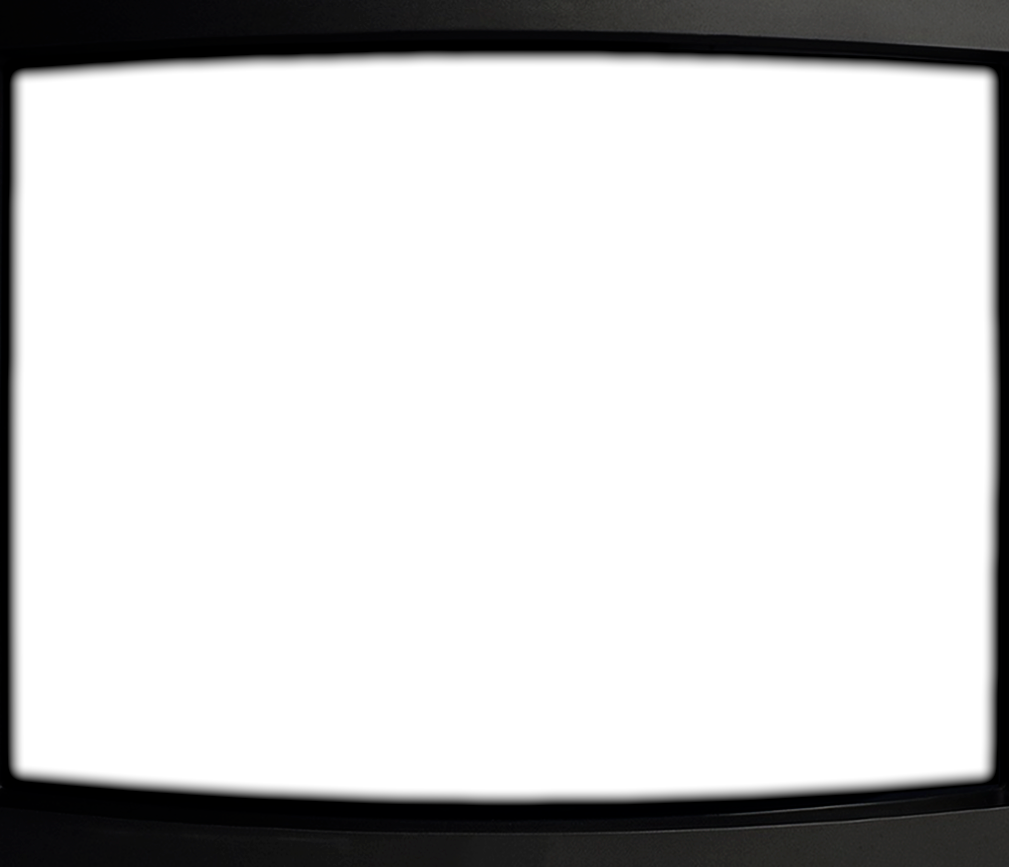
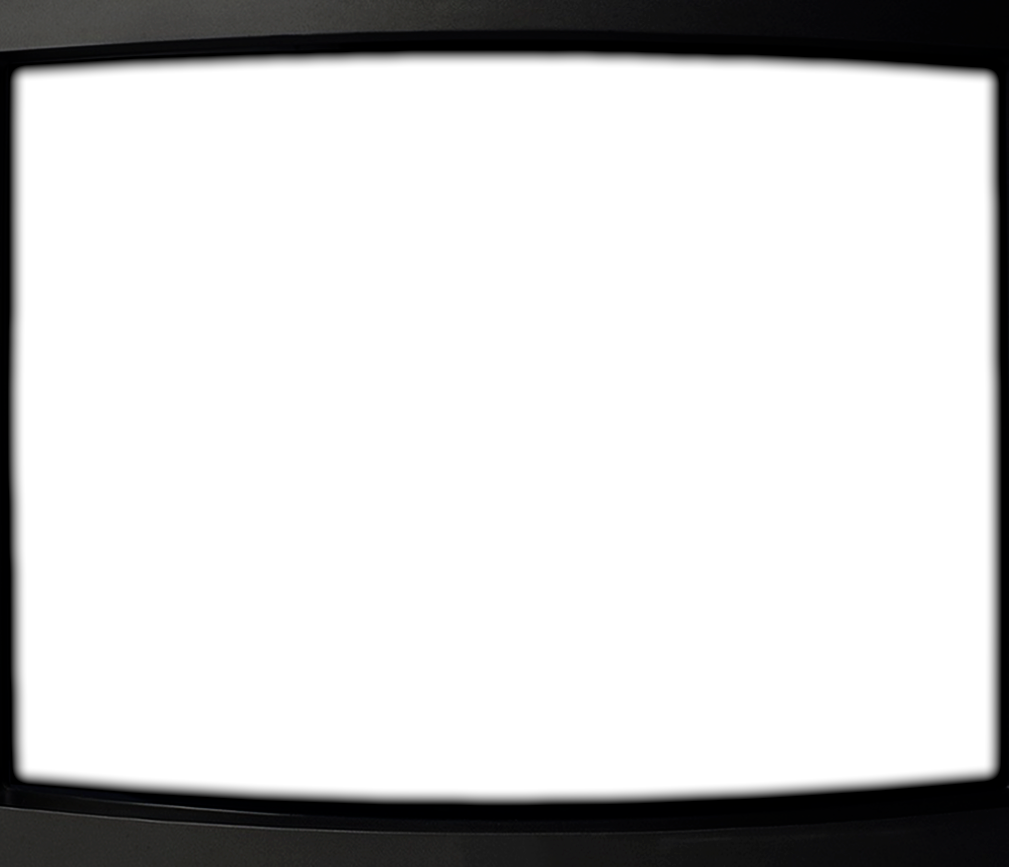
Modify css display logic

diff --git a/_sass/main.scss b/_sass/main.scss
@@ -33,16 +33,13 @@ body {
 }
 
 /* The top menu */
-.topnav {
+#topnav {
   display: flex;
-  z-index: 5;
-  // list-style-type: none;
+  z-index: 10;
   top: 0;
   width: 100%;
   height: 80px;
   position: fixed;
-  // margin: 0;
-  // padding: 0;
   overflow: hidden;
   background-color: #333;
   background-image: url('/assets/img/topbar.png');
@@ -63,7 +60,6 @@ body {
 
 .worn {
   content: '\A';
-  // position: absolute;
   opacity:90;
   background: url("/assets/img/wornkey.jpg");
 }
@@ -89,19 +85,117 @@ body {
   .topnav {float: none;}
 }
 
+/* Screen frame */
+#monitor {
+  margin-top: 60px;
+  position: fixed;
+  width: 100%;
+  height: 100%;
+  top: 0;
+  left: 0;
+  right: 0;
+  bottom: 0;
+	// align-items: center;
+  background-color: black;
+  background-image: radial-gradient(
+    rgba(10, 10, 10, 0.75), black 120%
+  );
+  border-bottom: 0px;
+  padding:0;
+}
+
+#bezel {
+  // z-index: 9;
+  box-sizing:border-box;
+  position: relative;
+  padding: 10px;
+  width: 100%;
+  height: 95vh;
+  border: 30px solid transparent;
+  border-image-source: url('/assets/img/bezel.png');
+  border-image-slice: 30 fill;
+  border-image-outset: 0;
+  overflow: hidden;
+}
+
+
+// #screen:before {
+//   content: " ";
+//   display: block;
+//   position: absolute;
+//   top: 0;
+//   left: 0;
+//   bottom: 0;
+//   right: 0;
+//   background: linear-gradient(
+//       to bottom,
+//       rgba(18, 16, 16, 0) 50%,
+//       rgba(0, 0, 0, 0.25) 50%
+//   );
+//   background-size: 100% 8px;
+//   z-index: 2;
+//   pointer-events: none;
+// }
+
+#screen, pre{
+  font-family: 'terminal';
+  font: 1.3rem terminal, monospace;
+}
+
+#screen::before {
+  box-sizing:inherit;
+}
+
+#screen {
+  z-index: 2;
+  position: relative;
+  // font-family: 'terminal';
+  // font: 1.3rem terminal, monospace;
+  height: 100vh;
+  // overflow: hidden;
+  padding: 2rem;
+  color: white;
+  // font: 1.3rem Inconsolata, monospace;
+  // text-shadow: 0 0 5px;
+  // &::after {
+  //   content: "";
+  //   position: relative;
+  //   top: 0;
+  //   left: 0;
+  //   bottom: 0;
+  //   width: 100vw;
+  //   height: 100vh;
+  //   background: repeating-linear-gradient(
+  //     0deg,
+  //     rgba(black, 0.15),
+  //     rgba(black, 0.15) 1px,
+  //     transparent 1px,
+  //     transparent 2px
+  //   );
+  //   pointer-events: none;
+  // }
+}
+
+::selection {
+  background: #0080FF;
+  text-shadow: none;
+}
+
 /* Style page content */
 .content {
   // margin-left: 200px; /* Same as the width of the sidebar */
-  margin-top: 35px; /* Add a top margin to avoid content overlay */
-  padding: 0px 10px;
-  background-color: #000;
+  // margin-top: 35px; /* Add a top margin to avoid content overlay */
+  // padding: 0px 10px;
+  // background-color: #000;
   // background: url('/assets/img/bezel.png');
   // background-repeat: no-repeat
 }
 
-.dotmatrix {
+#dotmatrix {
+  z-index: 12;
+  position: fixed;
   margin-top: 35px;
-  padding: 10px 70px 10px;
+  padding: 10px 70px 10px 70px;
   font-family: 'dotmatrix';
   font-size: 20px;
   background-image: url('/assets/img/DotMatrixPaper.png');
@@ -122,27 +216,6 @@ strong{
   font-family: 'dotmatrixbold';
   font-weight: bold;
   font-style: normal;
-}
-
-.crtframe {
-  top: 65px; /* Add a top margin to avoid content overlay */
-  z-index: 20;
-  // position: fixed;
-  // width: 100%;
-  // height: 100%;
-  border: 10px solid transparent;
-  padding: 15px;
-  border-image: url('/assets/img/bezel.png') 30;
-  // border-image-source: url('/assets/img/bezel.png');
-  // border-image-slice: 30 fill;
-  // border-image-outset: 0;
-  // overflow: hidden;
-  // z-index: 99;
-  // position: absolute;
-  // background: url('/assets/img/bezel.png');
-  // background-repeat: no-repeat;
-  // background-attachment: fixed;
-  // background-size: 100% 100%;
 }
 
 .logobutton {

diff --git a/_layouts/default.html b/_layouts/default.html
@@ -1,21 +1,16 @@
 <!doctype html>
 <html>
-  <head>
-    <title>{{ page.title }}</title>
-    <meta charset="utf-8">
-    <meta name="viewport" content="width=device-width, initial-scale=1">
-    <link rel="stylesheet" href="/assets/css/styles.css">
-    <link rel="shortcut icon" href="/assets/img/favicon.ico">
-    {% feed_meta %}
-    {% seo %}
-  </head>
+  {% include head.html %}
   <body>
-      <div class="topnav">
+      <div id="topnav">
         {% include navigation.html %}
       </div>
-      <div class="content terminal crt crtframe">
-        {{ content }}
+      <div id ="monitor">
+        <div id="bezel">
+          <div id="screen">
+            {{ content }}
+          </div>
+        </div>
       </div>
-    </div>
   </body>
 </html>

diff --git a/_layouts/dotmatrix.html b/_layouts/dotmatrix.html
@@ -1,20 +1,17 @@
 <!doctype html>
 <html>
-  <head>
-    <title>{{ page.title }}</title>
-    <meta charset="utf-8">
-    <meta name="viewport" content="width=device-width, initial-scale=1">
-    <link rel="stylesheet" href="/assets/css/styles.css">
-    {% feed_meta %}
-    {% seo %}
-  </head>
+  {% include head.html %}
   <body>
-    <div class="topnav">
+    <div id="topnav">
       {% include navigation.html %}
     </div>
-    <div class="dotmatrix">
-      {{ content }}
-    </div>
+      <div id ="monitor">
+        <div id="bezel">
+          <div id="dotmatrix">
+              {{ content }}
+          </div>
+        </div>
+      </div>
     </div>
   </body>
 </html>

diff --git a/_includes/head.html b/_includes/head.html
@@ -1,0 +1,9 @@
+<head>
+  <title>{{ page.title }}</title>
+  <meta charset="utf-8">
+  <meta name="viewport" content="width=device-width, initial-scale=1">
+  <link rel="stylesheet" href="/assets/css/styles.css">
+  <link rel="shortcut icon" href="/assets/img/favicon.ico">
+  {% feed_meta %}
+  {% seo %}
+</head>

diff --git a/_includes/navigation.html b/_includes/navigation.html
@@ -1,5 +1,5 @@
 <div>
-  <div class = "topnav">
+  <div id="topnav">
   <nav>
     <a href="/" class="kbc-button kbc-button-sm kbc-button-secondary {% if page.url == '/' %} kbc-button-success active{% endif %} buttontape">
       <div class="homebutton">{{ site.default_nav_title }}</div>

diff --git a/assets/css/styles.scss b/assets/css/styles.scss
@@ -2,7 +2,7 @@
 #frontmatter
 ---
 @import "main";
-@import "crt";
-@import "terminal";
+// @import "crt";
+// @import "terminal";
 @import "keybutton/main.scss";
 @import "vectro.scss";

diff --git a/index.html b/index.html
@@ -2,4 +2,4 @@
 title: fite.dev
 ---
 <h1>{{ "Hello World!" | downcase }}</h1>
-My name is Matt Fite, and I grew up in the command line.
+My name is Matt Fite.

diff --git a/_sass/terminal.scss b/_sass/terminal.scss
@@ -1,4 +1,5 @@
 .terminal {
+  z-index: 5;
   font-family: 'terminal';
   font: 1.3rem terminal, monospace;
   background-color: black;
